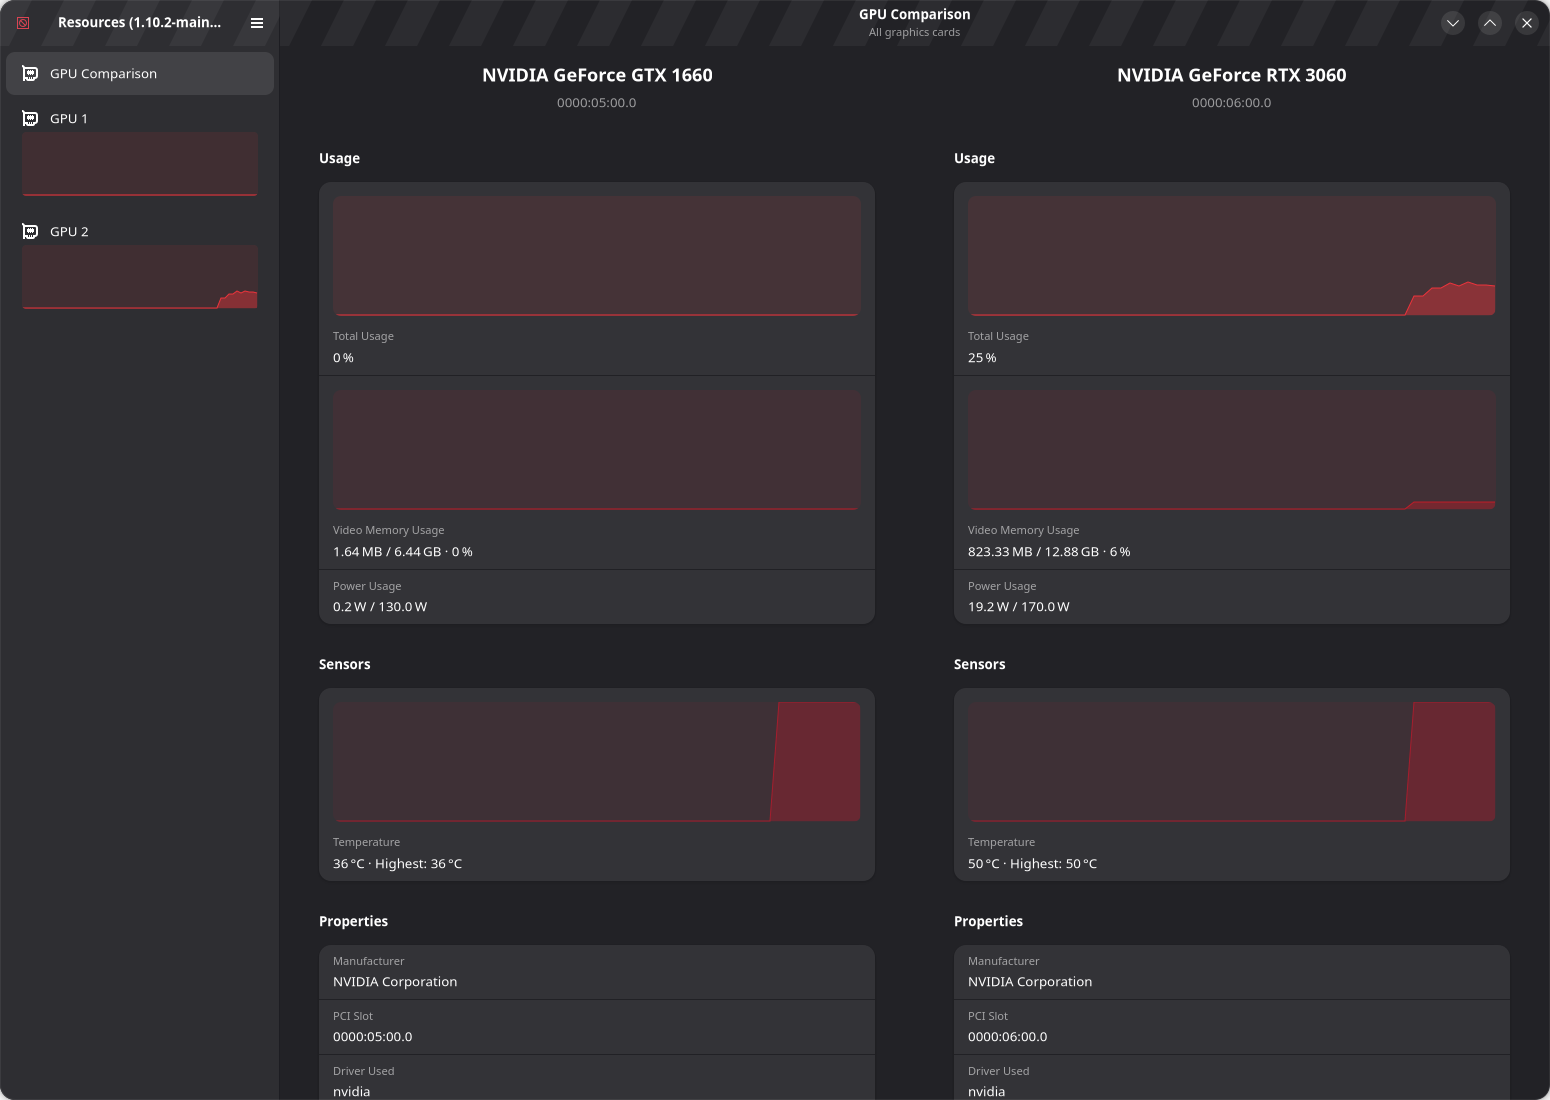
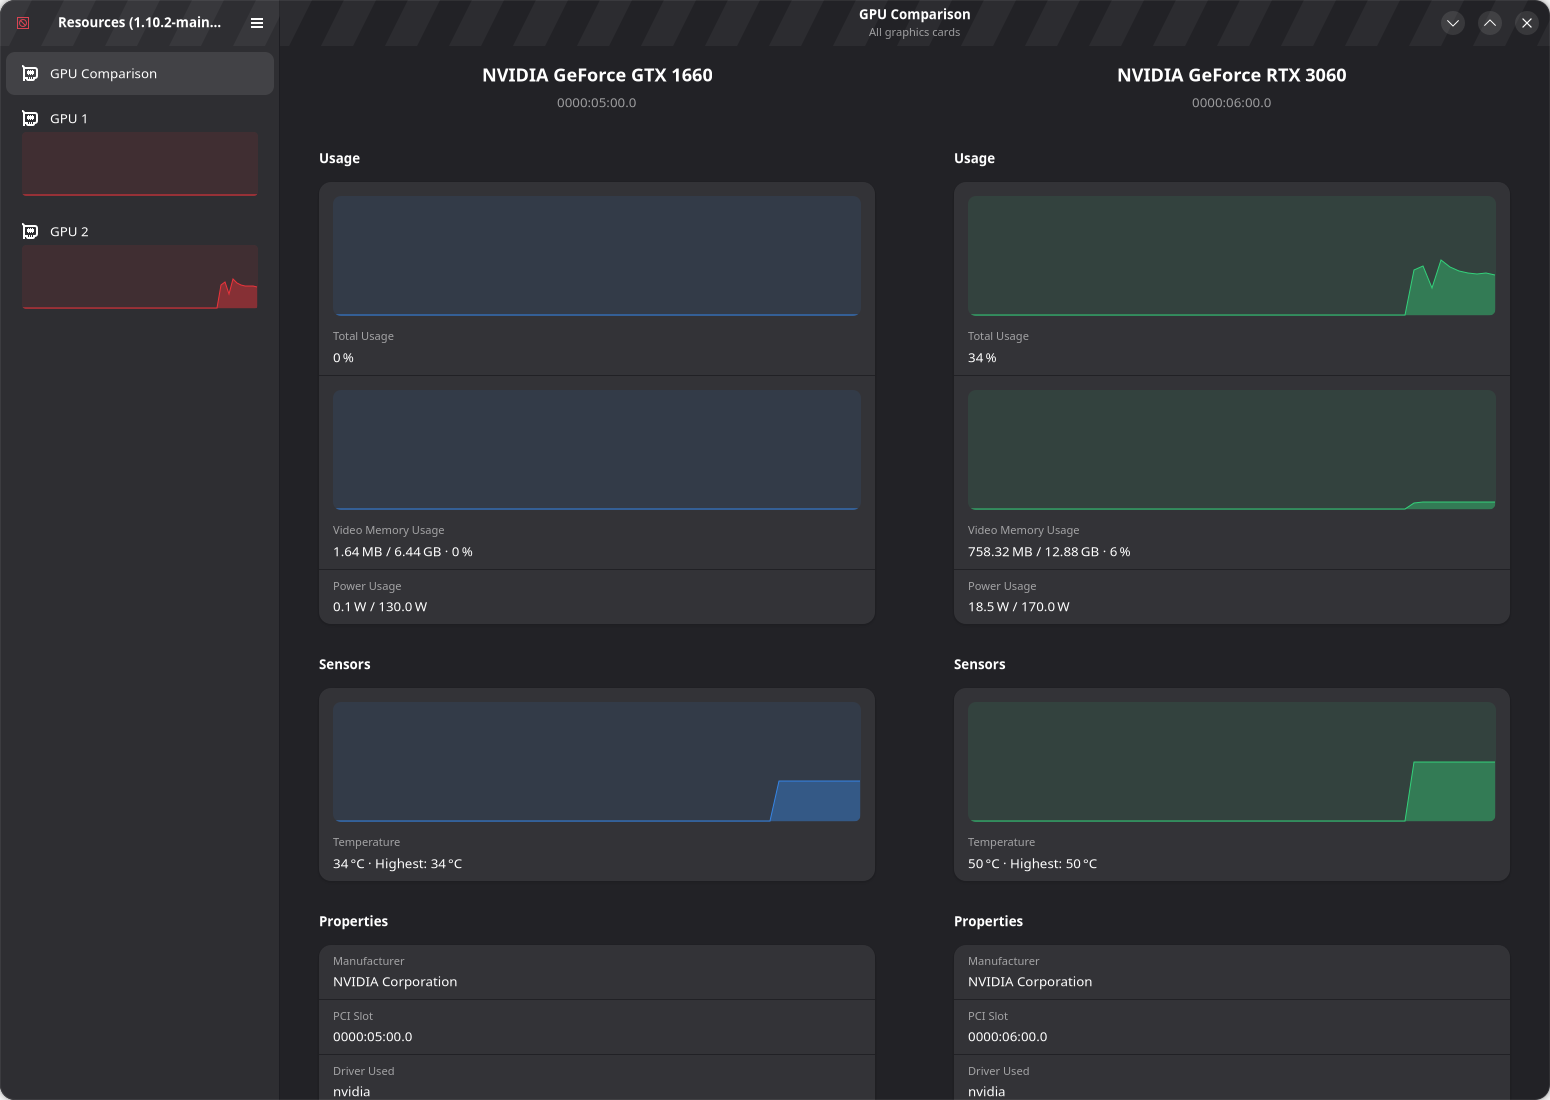
Polish GPU comparison colors, temperature scale and scrolling
Use distinct chart colors per card, a shared temperature range and synchronized vertical scrolling with weak peer references and a signal guard. Preserve original per-GPU layouts. Extend the capture helper with live two-way scroll, scale and color checks; refresh help, screenshot and engineering log.

All five Meson checks and the live GTK checks passed.

diff --git a/src/ui/pages/gpu_comparison.rs b/src/ui/pages/gpu_comparison.rs
@@ -1,7 +1,11 @@
 use adw::{prelude::*, subclass::prelude::*};
 use gtk::{gio, glib};
 use process_data::gpu_usage::GpuIdentifier;
-use std::{cell::RefCell, collections::HashMap};
+use std::{
+    cell::{Cell, RefCell},
+    collections::HashMap,
+    rc::Rc,
+};
 
 use super::{GPU_PRIMARY_ORD, gpu::ResGPU};
 use crate::i18n::i18n;
@@ -85,6 +89,12 @@ impl ResGPUComparison {
         let obj: Self = glib::Object::new();
         let columns = gtk::Box::new(gtk::Orientation::Horizontal, 0);
         columns.set_homogeneous(true);
+        let colors = [
+            (0x35, 0x84, 0xe4),
+            (0x33, 0xd1, 0x7a),
+            (0xc0, 0x61, 0xcb),
+            (0xff, 0xa3, 0x48),
+        ];
         for (i, gpu) in gpus.iter().enumerate() {
             let column = gtk::Box::new(gtk::Orientation::Vertical, 6);
             column.set_size_request(340, -1);
@@ -101,7 +111,7 @@ impl ResGPUComparison {
             column.append(&identity);
             let panel = ResGPU::new();
             panel.init(gpu, i as u32);
-            panel.set_comparison_layout();
+            panel.set_comparison_layout(colors[i % colors.len()]);
             panel.set_vexpand(true);
             column.append(&panel);
             columns.append(&column);
@@ -109,6 +119,42 @@ impl ResGPUComparison {
                 .panels
                 .borrow_mut()
                 .insert(gpu.gpu_identifier(), panel);
+        }
+        let adjustments: Vec<_> = obj
+            .imp()
+            .panels
+            .borrow()
+            .values()
+            .map(|panel| {
+                panel
+                    .child()
+                    .and_downcast::<gtk::ScrolledWindow>()
+                    .unwrap()
+                    .vadjustment()
+            })
+            .collect();
+        let peers = Rc::new(
+            adjustments
+                .iter()
+                .map(|adjustment| adjustment.downgrade())
+                .collect::<Vec<_>>(),
+        );
+        let syncing = Rc::new(Cell::new(false));
+        for adjustment in adjustments {
+            let peers = peers.clone();
+            let syncing = syncing.clone();
+            adjustment.connect_value_changed(move |source| {
+                if syncing.get() {
+                    return;
+                }
+                syncing.set(true);
+                for peer in peers.iter().filter_map(|weak| weak.upgrade()) {
+                    if peer != *source {
+                        peer.set_value(source.value());
+                    }
+                }
+                syncing.set(false);
+            });
         }
         let scroll = gtk::ScrolledWindow::new();
         scroll.set_policy(gtk::PolicyType::Automatic, gtk::PolicyType::Never);
@@ -118,8 +164,21 @@ impl ResGPUComparison {
     }
 
     pub fn refresh_gpu(&self, data: &GpuData) {
-        if let Some(panel) = self.imp().panels.borrow().get(&data.gpu_identifier) {
+        let panels = self.imp().panels.borrow();
+        if let Some(panel) = panels.get(&data.gpu_identifier) {
             panel.refresh_page(data);
+        }
+        // A shared Celsius range keeps equal temperatures at equal graph heights.
+        let max_temperature = panels
+            .values()
+            .map(|panel| panel.imp().temperature.graph().get_highest_value())
+            .fold(100.0, f64::max);
+        for panel in panels.values() {
+            panel
+                .imp()
+                .temperature
+                .graph()
+                .set_locked_max_y(Some(max_temperature));
         }
     }
 }

diff --git a/src/bin/resources-capture.rs b/src/bin/resources-capture.rs
@@ -3,6 +3,7 @@
 use adw::{prelude::*, subclass::prelude::*};
 use gtk::{gdk::prelude::PaintableExt, gio, glib};
 use resources::application::Application;
+use resources::ui::pages::gpu_comparison::ResGPUComparison;
 use std::time::Duration;
 
 fn main() {
@@ -28,6 +29,66 @@ fn main() {
             }
         }
     });
+    if std::env::var_os("RESOURCES_CAPTURE_VERIFY").is_some() {
+        glib::timeout_add_local_once(Duration::from_secs(4), || {
+            let app = gio::Application::default()
+                .unwrap()
+                .downcast::<Application>()
+                .unwrap();
+            let window = app.try_main_window().unwrap();
+            let toolbar = window
+                .imp()
+                .content_stack
+                .visible_child()
+                .unwrap()
+                .downcast::<adw::ToolbarView>()
+                .unwrap();
+            let comparison = toolbar
+                .content()
+                .unwrap()
+                .downcast::<ResGPUComparison>()
+                .unwrap();
+            let panels = comparison.imp().panels.borrow();
+            assert!(panels.len() >= 2);
+            let panels: Vec<_> = panels.values().collect();
+            let scale = panels[0].imp().temperature.graph().imp().max_y.get();
+            assert!(scale.unwrap() >= 100.0);
+            for panel in &panels {
+                assert_eq!(panel.imp().temperature.graph().imp().max_y.get(), scale);
+            }
+            assert_ne!(
+                panels[0].imp().gpu_usage.graph().imp().graph_color.get(),
+                panels[1].imp().gpu_usage.graph().imp().graph_color.get()
+            );
+            let adjustments: Vec<_> = panels
+                .iter()
+                .map(|panel| {
+                    panel
+                        .child()
+                        .and_downcast::<gtk::ScrolledWindow>()
+                        .unwrap()
+                        .vadjustment()
+                })
+                .collect();
+            let target = adjustments
+                .iter()
+                .map(|a| a.upper() - a.page_size())
+                .fold(64.0, f64::min);
+            assert!(target > 0.0);
+            adjustments[0].set_value(target);
+            for adjustment in &adjustments {
+                assert!((adjustment.value() - target).abs() < 1.0);
+            }
+            adjustments[1].set_value(target / 2.0);
+            for adjustment in &adjustments {
+                assert!((adjustment.value() - target / 2.0).abs() < 1.0);
+            }
+            adjustments[0].set_value(0.0);
+            eprintln!(
+                "Comparison checks passed: shared temperature range, distinct colors, synchronized scrolling"
+            );
+        });
+    }
     glib::timeout_add_local_once(Duration::from_secs(10), move || {
         let app = gio::Application::default()
             .unwrap()

diff --git a/src/ui/pages/gpu.rs b/src/ui/pages/gpu.rs
@@ -199,12 +199,16 @@ impl ResGPU {
         self.setup_widgets(gpu);
     }
 
-    pub fn set_comparison_layout(&self) {
+    pub fn set_comparison_layout(&self, color: (u8, u8, u8)) {
         let imp = self.imp();
         imp.encode_decode_usage.set_visible(false);
         imp.encode_decode_combined_usage.set_visible(false);
         imp.gpu_clockspeed.set_visible(false);
         imp.vram_clockspeed.set_visible(false);
+        let (r, g, b) = color;
+        imp.gpu_usage.graph().set_graph_color(r, g, b);
+        imp.vram_usage.graph().set_graph_color(r, g, b);
+        imp.temperature.graph().set_graph_color(r, g, b);
     }
 
     pub fn setup_widgets(&self, gpu: &Gpu) {

diff --git a/docs/GPU-COMPARISON.md b/docs/GPU-COMPARISON.md
@@ -6,12 +6,13 @@ Open **GPU Comparison** in the sidebar. Each card gets its own column, labeled w
 
 ## Read the view
 
+- Each GPU has a distinct chart color; model and PCI labels also identify it.
 - **Total Usage** shows how busy each GPU is; both usage charts use the normal 0–100% scale.
 - **Video Memory Usage** shows used and total memory. Compare the printed amounts as well as the percentage: 50% of a 6 GB card differs from 50% of a 12 GB card.
-- **Power Usage** and **Temperature** help distinguish active compute from storage/offloading. Temperature graphs retain Resources' own automatic scale; compare their numeric readings rather than their graph heights.
+- **Power Usage** and **Temperature** help distinguish active compute from storage/offloading. Both temperature graphs share a 0–100°C range, expanding together if a recorded reading exceeds 100°C. Equal temperatures now have equal graph heights; labels still honor your temperature-unit preference.
 - **Details**, further down each column, include the vendor, driver, PCI slot and link information available to Resources.
 
-The comparison omits video encoder/decoder graphs and frequency rows to keep usage, memory, power and temperature together. Those fields remain in each original GPU page. Scroll each column vertically for more detail; on narrow windows, scroll the whole comparison horizontally. Widen the window for an easier comparison.
+The comparison omits video encoder/decoder graphs and frequency rows to keep usage, memory, power and temperature together. Those fields remain in each original GPU page. Scroll either column vertically to move all cards together and keep corresponding rows aligned. On narrow windows, scroll the whole comparison horizontally. Widen the window for an easier comparison.
 
 An idle donor GPU can hold model weights without showing high utilization. This view reports activity; it neither chooses the compute GPU nor assigns AI offloading roles. GPU 1/GPU 2 are Resources labels, not guaranteed CUDA indices. Use model names and PCI addresses to identify cards. Missing readings keep upstream Resources' N/A handling.
 
@@ -50,15 +51,15 @@ A documentation helper captures only this application's rendered window, not the
 ```sh
 GSETTINGS_SCHEMA_DIR="$PWD/local-install/share/glib-2.0/schemas" \
 RESOURCES_CAPTURE_PATH="$PWD/docs/screenshots/gpu-comparison.png" \
-GSK_RENDERER=cairo \
+RESOURCES_CAPTURE_VERIFY=1 GSK_RENDERER=cairo \
 ./build/src/debug/resources-capture --open-tab-id gpu-comparison -p -d -n -b -c -m -v
 ```
 
-It opens the real comparison UI, waits for live readings, saves a PNG and exits. A graphical session is required. `-p` hides process/app monitoring for screenshot privacy; the other switches hide unrelated devices. The helper has no GPU-setting or process-control actions. It uses a 1550×1100 window so details are readable.
+It opens the real comparison UI, checks synchronized scrolling, the shared temperature range and distinct colors, waits for live readings, saves a PNG and exits. Omit RESOURCES_CAPTURE_VERIFY when capturing an individual GPU page. A graphical session is required. `-p` hides process/app monitoring for screenshot privacy; the other switches hide unrelated devices. The helper has no GPU-setting or process-control actions. It uses a 1550×1100 window so details are readable.
 
 ## Limitations
 
-Only an RTX 3060 / GTX 1660 pair has been visually exercised for this fork. Single-GPU systems retain their normal page and do not show comparison. More than two GPUs scroll horizontally. GPU hotplug/reordering during a session is not newly supported; restart the app after a hardware change. Polling frequency, sensor behavior, graph history, temperature scaling and existing per-GPU pages come from upstream Resources.
+Only an RTX 3060 / GTX 1660 pair has been visually exercised for this fork. Single-GPU systems retain their normal page and do not show comparison. More than two GPUs scroll horizontally. GPU hotplug/reordering during a session is not newly supported; restart the app after a hardware change. Polling frequency, sensor behavior, graph history and existing per-GPU pages come from upstream Resources. Only comparison temperature charts use the shared range; individual pages retain their original automatic scaling.
 
 This is an independent GPL-3.0-or-later fork, not an official upstream release. Upstream development now lives at [GNOME GitLab](https://gitlab.gnome.org/GNOME/Incubator/resources). See [CHANGELOG](GPU-COMPARISON-CHANGELOG.md) for exact scope and checks.
 

diff --git a/docs/GPU-COMPARISON-CHANGELOG.md b/docs/GPU-COMPARISON-CHANGELOG.md
@@ -28,3 +28,13 @@ The separate Wan comparison finished before UI validation: RAM sampling 147.726s
 Visual testing covers this two-NVIDIA-card machine. The new layout follows detected-device order; headings provide stable identity without assuming GPU 1 or cuda:0 is the primary compute card. Per-card temperature charts auto-scale independently, so numeric temperature readings should be compared. More than two columns and narrow windows are supported by horizontal scrolling but have not been extensively tested. Hotplug handling is unchanged. The comparison's sidebar has no aggregate utilization graph, since averaging unrelated GPUs could mislead.
 
 Close and delete the separate local build to roll back; the distribution Resources app remains installed. Keep main/upstream unchanged and submit upstream only after separate review. Publication includes source, build scripts, help, screenshots, original license and this log; no binary portability claim is made.
+
+## 2026-11-08 — comparison polish
+
+- Assign comparison columns distinct blue/green/purple/orange chart colors, cycling after four cards. Names and PCI labels continue to identify hardware independently of color. Individual GPU pages and sidebar graphs retain upstream colors.
+- Give comparison temperature graphs a common Celsius range starting at 0–100, expanding together to include any higher value in the visible histories. Numeric temperature formatting still honors the user's unit preference. This supersedes the initial limitation about independent temperature ranges in comparison; original per-card pages retain automatic scales.
+- Synchronize vertical adjustments so scrolling either column keeps corresponding rows aligned. Weak references between adjustments avoid retaining closed pages; a reentrancy guard prevents signal loops. GTK clamps the value if cards have differing content heights. Horizontal scrolling still handles narrow views and additional GPUs.
+- Extend the documentation capture helper with opt-in live checks for a shared temperature range, different chart colors and two-way scroll synchronization. Scroll is returned to the top before the real screenshot is captured; no synthetic sensor readings are inserted.
+- All five Meson checks pass again. The compiled GTK comparison passed the opt-in live checks on both NVIDIA cards; the refreshed screenshot shows 34°C and 50°C at proportional graph heights. No generation benchmark or GPU load was needed for this UI change.
+
+Same feature branch and separate install prefix. Help, README and screenshot updated. No system GPU settings, packaged Resources binary or ComfyUI files changed.

diff --git a/README.md b/README.md
@@ -1,6 +1,6 @@
 # Resources · GPU Comparison
 
-A side-by-side GPU view for comparing activity, VRAM, power and temperature, with actual model names and PCI addresses above each card. Built as a separate development copy; your installed Resources app stays intact.
+A side-by-side GPU view for comparing activity, VRAM, power and temperature, with actual model names and PCI addresses above each card. Distinct colors, a shared temperature range and synchronized scrolling make direct comparisons easier. Built as a separate development copy; your installed Resources app stays intact.
 
 ![Live RTX 3060 and GTX 1660 comparison](docs/screenshots/gpu-comparison.png)
 
